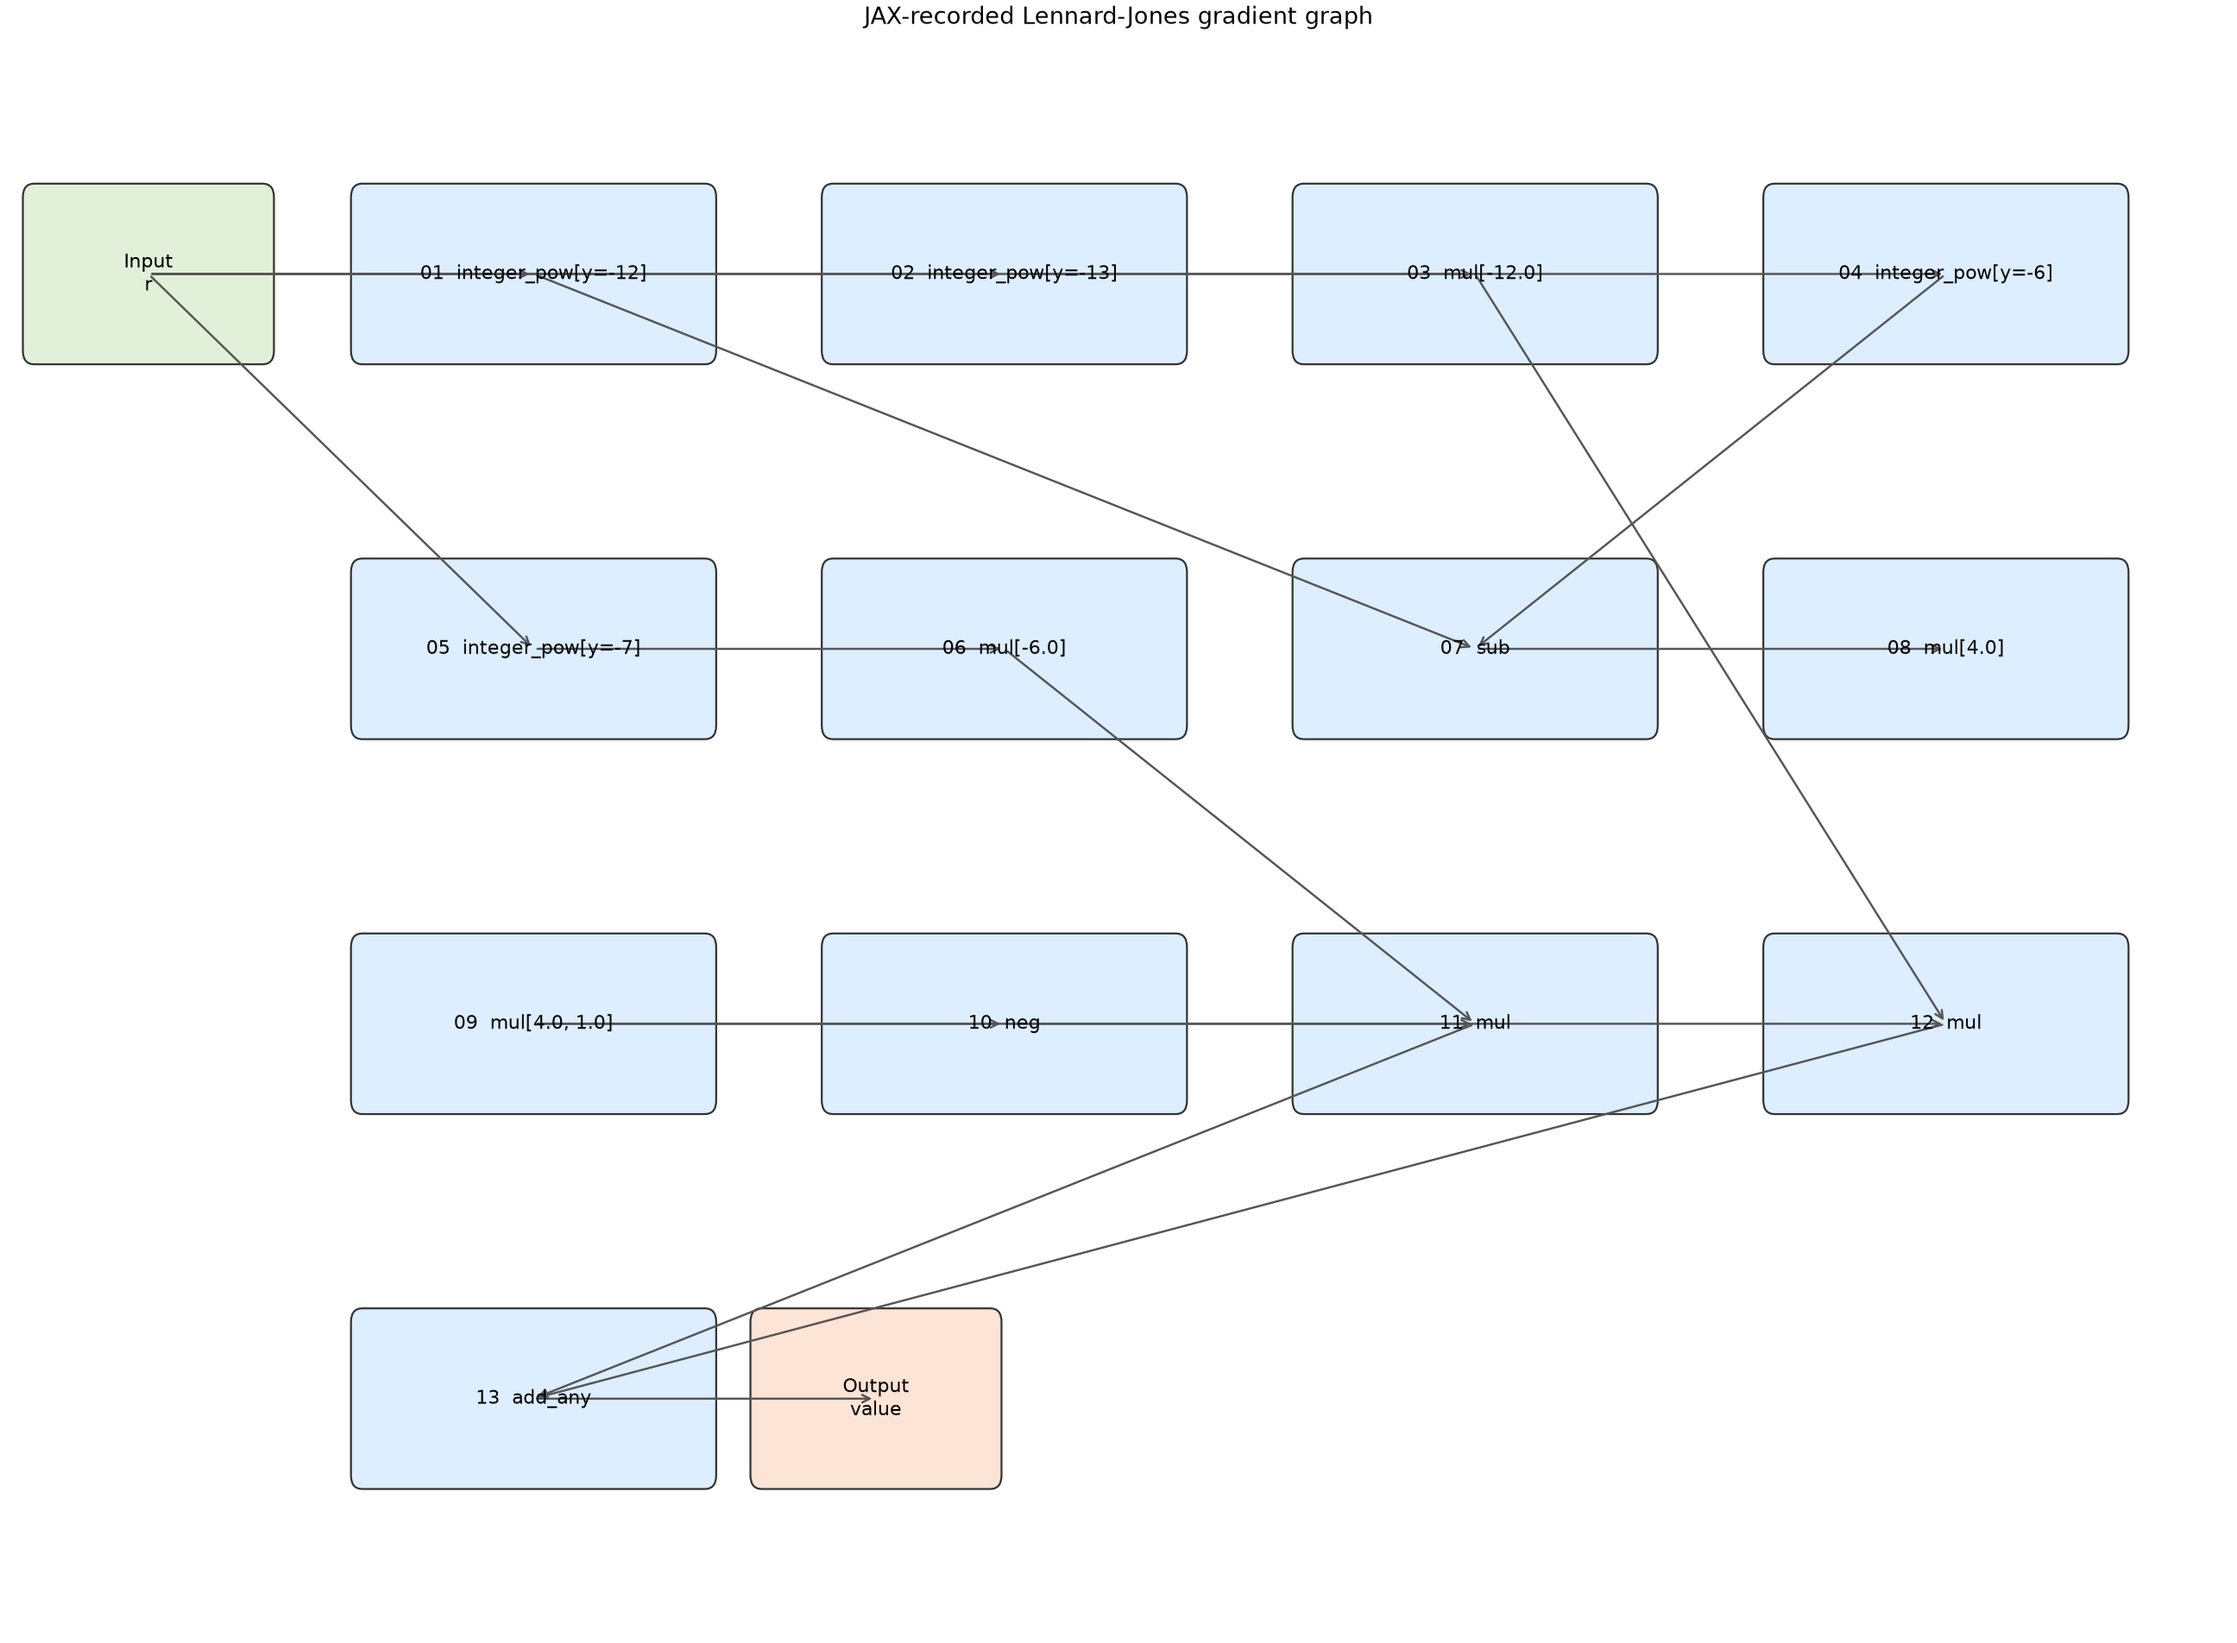
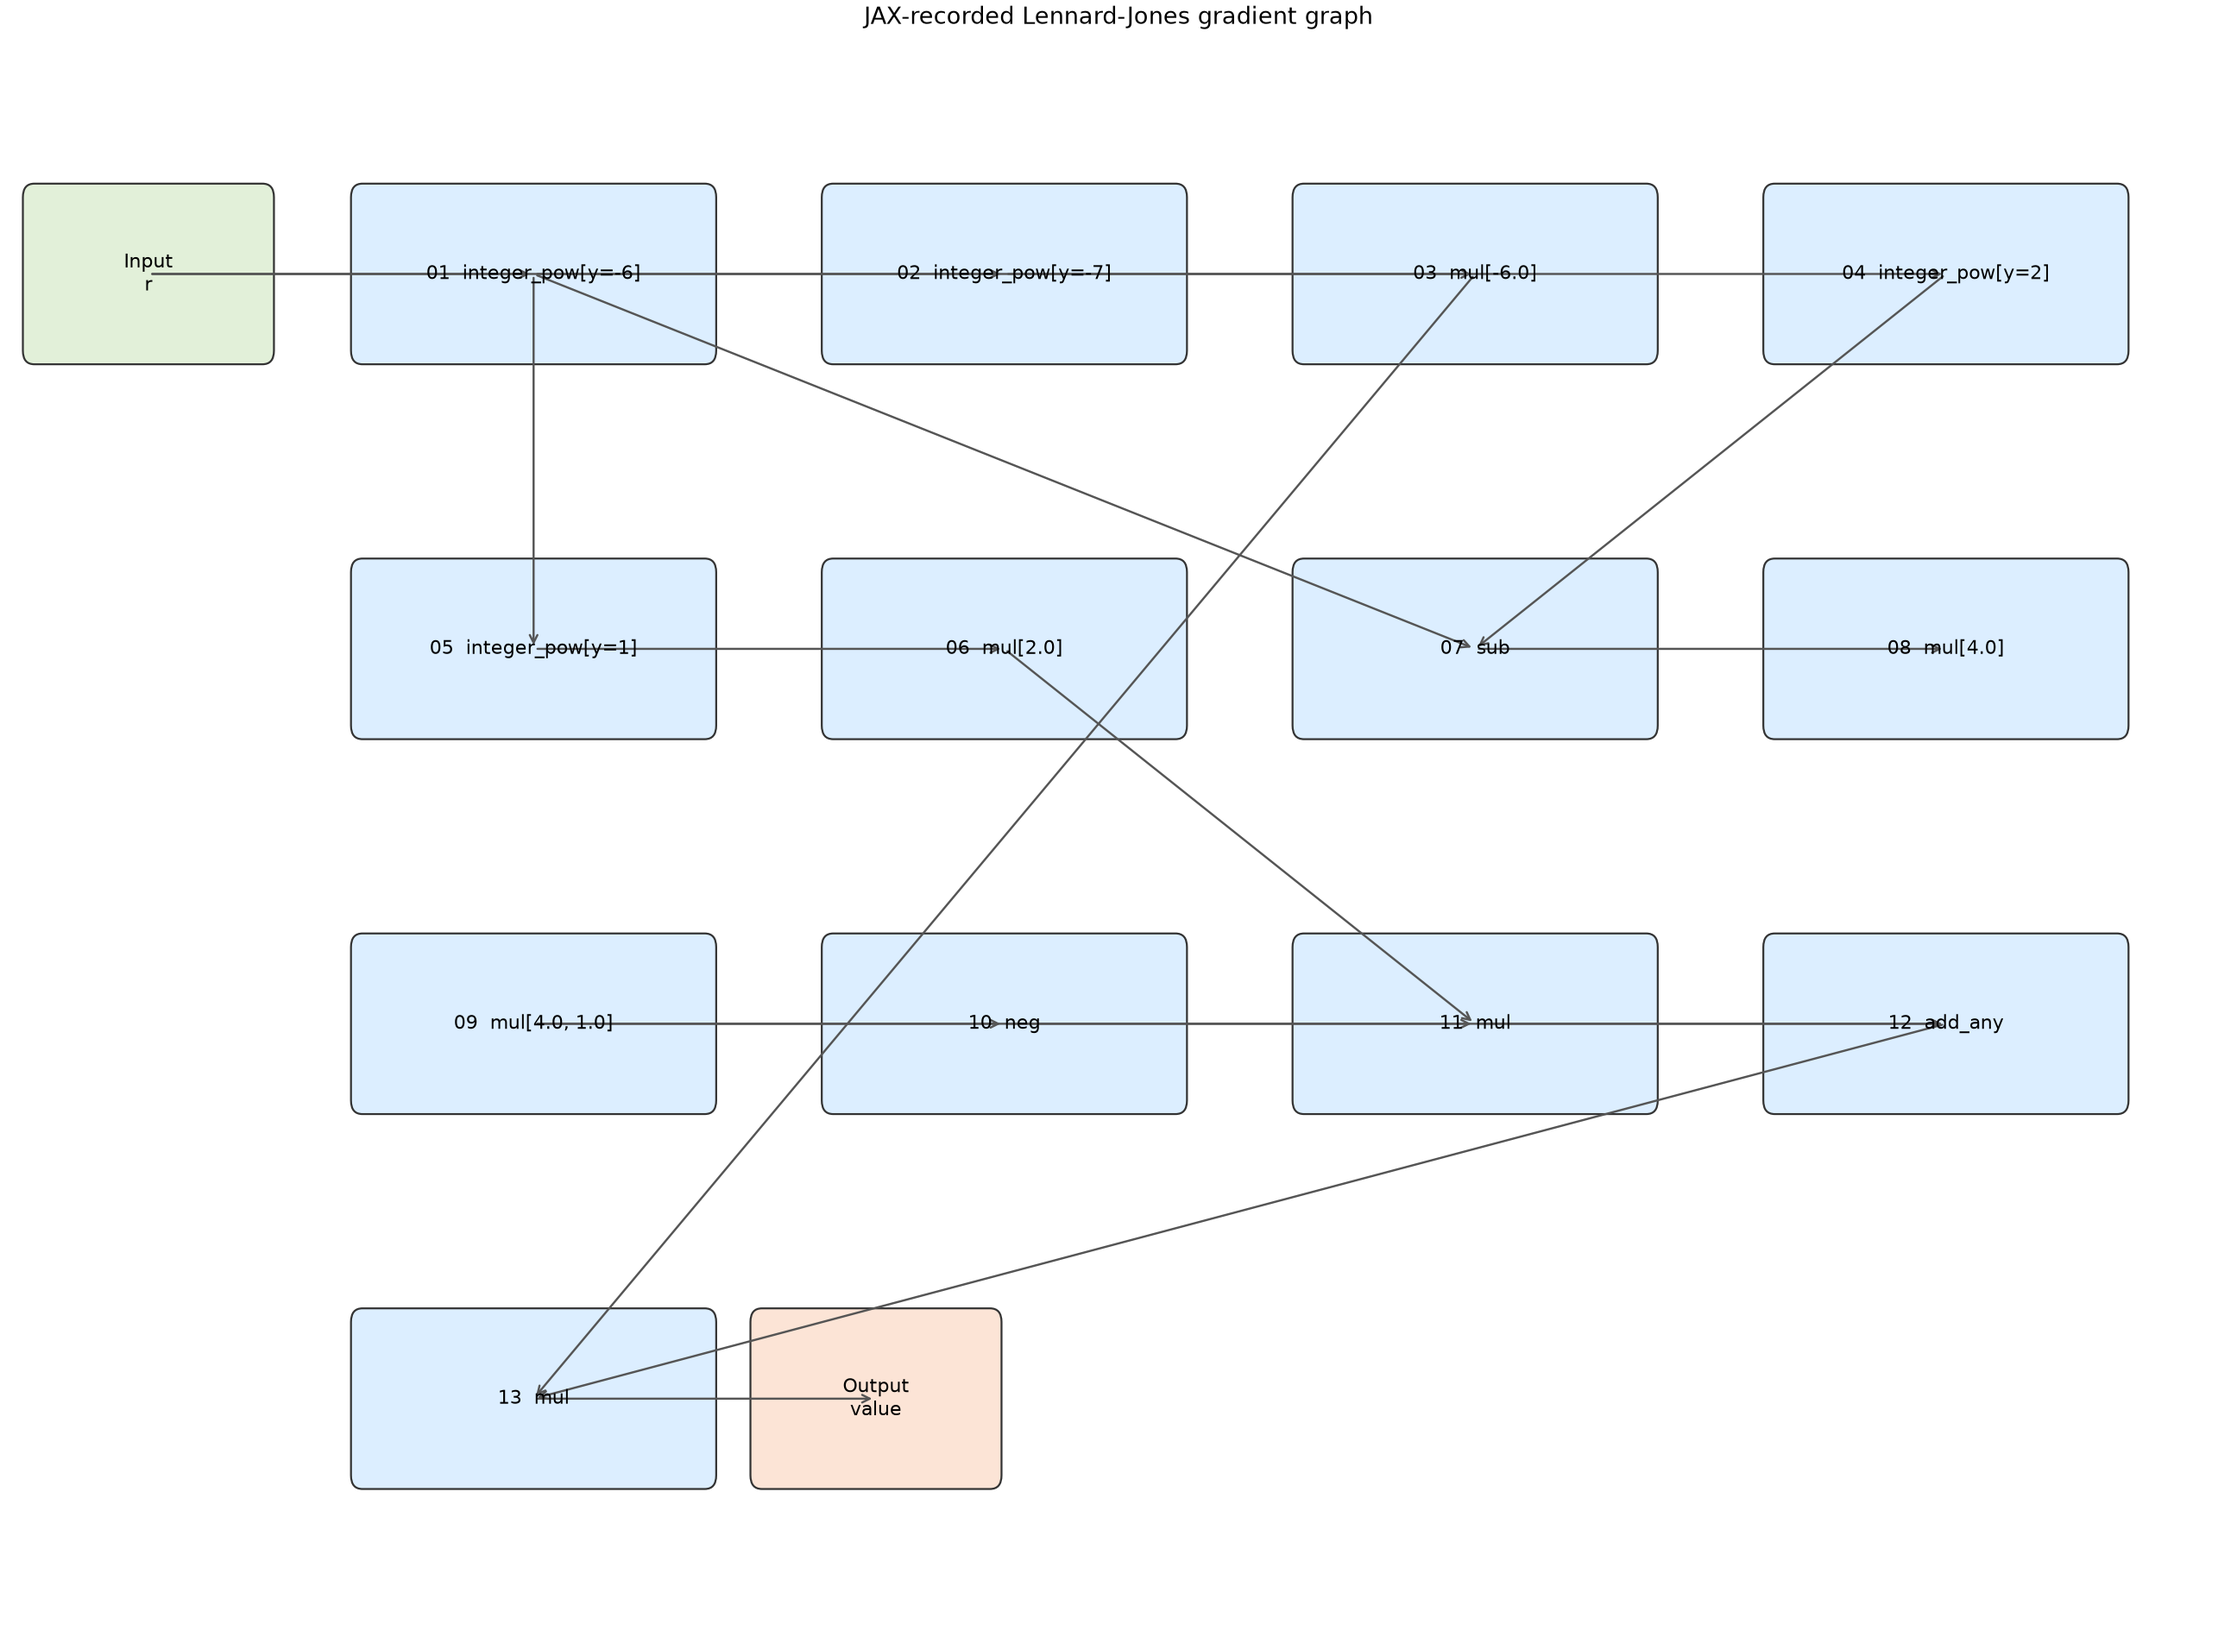
week5: correct shared-node gradient graph

diff --git a/week5/tests/test_part1c_graph.py b/week5/tests/test_part1c_graph.py
@@ -18,11 +18,82 @@ def test_recorded_operation_sequences() -> None:
 
 
 def test_gradient_shared_node_accumulation() -> None:
-    gradient_labels = part1c_graph.operation_sequence(part1c_graph.gradient_jaxpr())
-    add_index = gradient_labels.index("add_any")
-    assert add_index > 0
-    assert gradient_labels[add_index - 1] == "mul"
-    assert "neg" in gradient_labels[:add_index]
+    gradient_jaxpr = part1c_graph.gradient_jaxpr()
+    gradient_labels = part1c_graph.operation_sequence(gradient_jaxpr)
+    accumulation = part1c_graph.shared_node_accumulation(gradient_jaxpr)
+    contribution_equations = accumulation["contribution_equations"]
+    assert gradient_labels[accumulation["add_index"]] == "add_any"
+    assert [equation.primitive.name for _, equation in contribution_equations] == [
+        "neg",
+        "mul",
+    ]
+
+    producers = accumulation["producer_map"]
+    neg_index, neg_equation = contribution_equations[0]
+    mul_index, mul_equation = contribution_equations[1]
+    assert neg_index < accumulation["add_index"]
+    assert mul_index < accumulation["add_index"]
+
+    neg_source_index, neg_source = producers[id(neg_equation.invars[0])]
+    assert neg_source_index < neg_index
+    assert neg_source.primitive.name == "mul"
+    assert any(hasattr(variable, "val") and float(variable.val) == 4.0 for variable in neg_source.invars)
+
+    mul_sources = [producers[id(variable)] for variable in mul_equation.invars]
+    assert sorted(equation.primitive.name for _, equation in mul_sources) == ["mul", "mul"]
+    derivative_scale = [
+        (index, equation)
+        for index, equation in mul_sources
+        if any(hasattr(variable, "val") and float(variable.val) == 2.0 for variable in equation.invars)
+    ]
+    assert len(derivative_scale) == 1
+    derivative_index, derivative_equation = derivative_scale[0]
+    assert derivative_index < mul_index
+    derivative_input_index, derivative_input = producers[id(derivative_equation.invars[-1])]
+    assert derivative_input_index < derivative_index
+    assert derivative_input.primitive.name == "integer_pow"
+    assert derivative_input.params["y"] == 1
+
+    power_two = next(
+        equation
+        for equation in gradient_jaxpr.eqns
+        if equation.primitive.name == "integer_pow" and equation.params["y"] == 2
+    )
+    power_two_input_index, power_two_input = producers[id(power_two.invars[0])]
+    assert power_two_input_index < derivative_index
+    assert power_two_input.primitive.name == "integer_pow"
+    assert power_two_input.params["y"] == -6
+
+    multiplication_literals = [
+        float(variable.val)
+        for equation in gradient_jaxpr.eqns
+        if equation.primitive.name == "mul"
+        for variable in equation.invars
+        if hasattr(variable, "val")
+    ]
+    assert -6.0 in multiplication_literals
+    assert 2.0 in multiplication_literals
+    assert 4.0 in multiplication_literals
+
+    sub_equation = next(
+        equation for equation in gradient_jaxpr.eqns if equation.primitive.name == "sub"
+    )
+    c_output = sub_equation.outvars[0]
+    primal_energy_equation = next(
+        equation
+        for equation in gradient_jaxpr.eqns
+        if equation.primitive.name == "mul"
+        and any(id(variable) == id(c_output) for variable in equation.invars)
+        and any(hasattr(variable, "val") and float(variable.val) == 4.0 for variable in equation.invars)
+    )
+    assert primal_energy_equation is not None
+
+    forward_labels = part1c_graph.operation_sequence(part1c_graph.primal_jaxpr())
+    assert forward_labels == part1c_graph.PRIMAL_OPERATION_SEQUENCE
+    assert "sub" in gradient_labels
+    assert "integer_pow[y=-7]" in gradient_labels
+    assert "integer_pow[y=2]" in gradient_labels
+    assert "mul" in gradient_labels
 
 
 def test_graph_images_are_generated() -> None:

diff --git a/week5/scripts/part1c_graph.py b/week5/scripts/part1c_graph.py
@@ -14,9 +14,9 @@ from matplotlib.patches import FancyBboxPatch
 jax.config.update("jax_enable_x64", True)
 
 try:
-    from part1a_ad import energy, primal
+    from part1a_ad import primal
 except ModuleNotFoundError:
-    from scripts.part1a_ad import energy, primal
+    from scripts.part1a_ad import primal
 
 
 R_VALUE = 1.3
@@ -32,9 +32,14 @@ def primal_jaxpr() -> Any:
     return jax.make_jaxpr(primal)(scalar_input()).jaxpr
 
 
+def explicit_energy(r: Any) -> Any:
+    """Return U from the explicit Part 1A node-structured primal function."""
+    return primal(r)[-1]
+
+
 def gradient_jaxpr() -> Any:
-    """Record JAX's reverse-mode gradient of the Part 1A scalar energy."""
-    return jax.make_jaxpr(jax.grad(energy))(scalar_input()).jaxpr
+    """Record JAX's reverse-mode gradient of the explicit node-structured energy."""
+    return jax.make_jaxpr(jax.grad(explicit_energy))(scalar_input()).jaxpr
 
 
 def operation_label(eqn: Any) -> str:
@@ -78,6 +83,34 @@ def gradient_sequence_around_add_any(jaxpr: Any) -> list[str]:
     start = max(0, add_index - 3)
     stop = min(len(labels), add_index + 2)
     return [f"{index:02d}: {labels[index]}" for index in range(start, stop)]
+
+
+def _producer_map(jaxpr: Any) -> dict[int, tuple[int, Any]]:
+    producers: dict[int, tuple[int, Any]] = {}
+    for equation_index, equation in enumerate(jaxpr.eqns):
+        for variable in equation.outvars:
+            if not isinstance(variable, jax.core.DropVar):
+                producers[_var_key(variable)] = (equation_index, equation)
+    return producers
+
+
+def shared_node_accumulation(jaxpr: Any) -> dict[str, Any]:
+    """Describe the two producer paths that feed the shared-node add_any."""
+    producers = _producer_map(jaxpr)
+    add_indices = [
+        index for index, equation in enumerate(jaxpr.eqns) if equation.primitive.name == "add_any"
+    ]
+    if len(add_indices) != 1:
+        raise ValueError(f"expected one add_any, found {len(add_indices)}")
+    add_index = add_indices[0]
+    add_equation = jaxpr.eqns[add_index]
+    contribution_equations = [producers[_var_key(variable)] for variable in add_equation.invars]
+    return {
+        "add_index": add_index,
+        "add_equation": add_equation,
+        "contribution_equations": contribution_equations,
+        "producer_map": producers,
+    }
 
 
 def _var_key(value: Any) -> int:
@@ -218,6 +251,16 @@ def main() -> None:
     print(
         "gradient operations around add_any:",
         " -> ".join(gradient_sequence_around_add_any(gradient_recording)),
+    )
+    accumulation = shared_node_accumulation(gradient_recording)
+    feeding = [
+        f"{index:02d}: {equation.primitive.name}"
+        for index, equation in accumulation["contribution_equations"]
+    ]
+    print("operations immediately feeding add_any:", " and ".join(feeding))
+    print(
+        "add_any explanation: the neg path is the c = b - a contribution to a; "
+        "the mul path is the b = a^2 contribution to a, so both paths accumulate at a."
     )
     print("generated:", graph_path)
     print("generated:", gradient_path)
